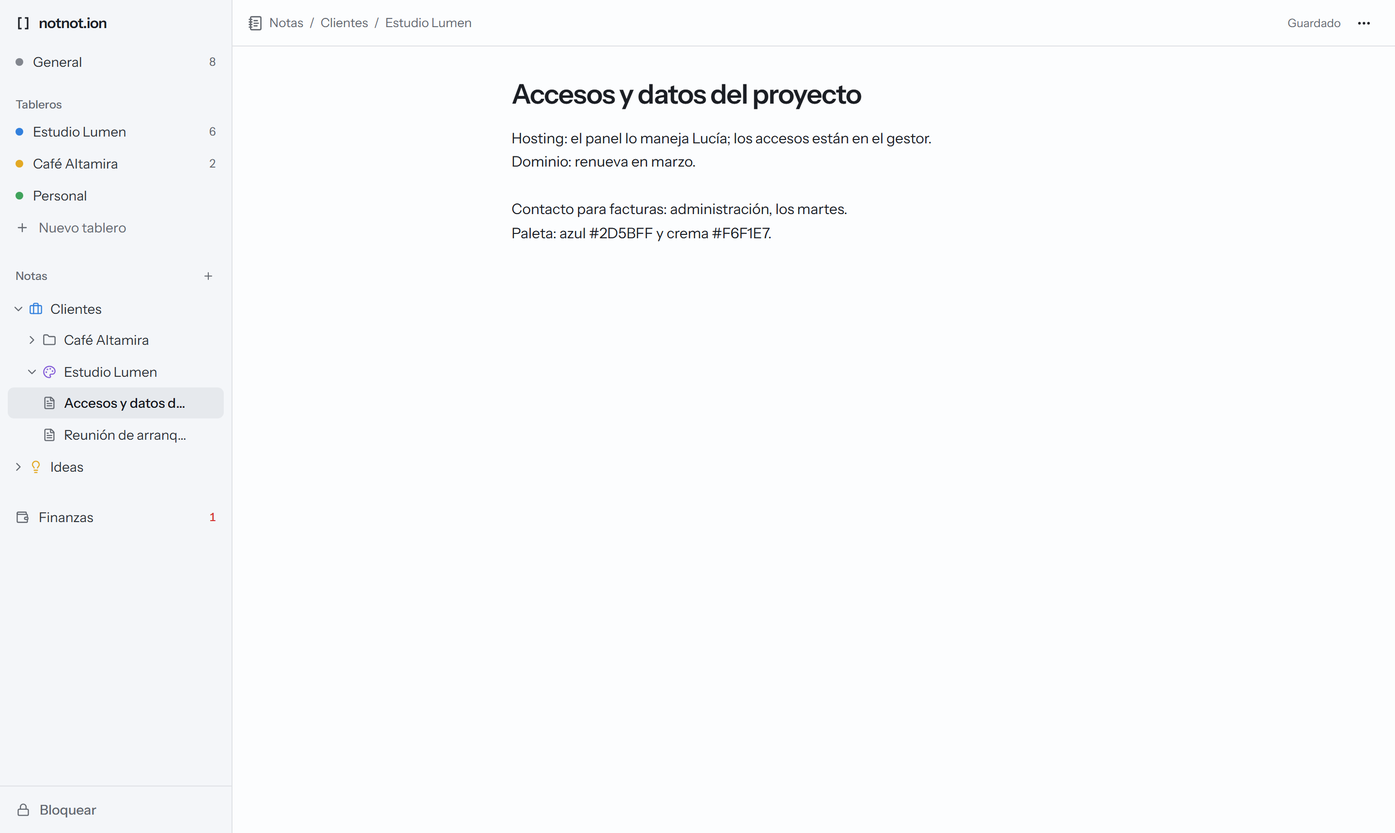
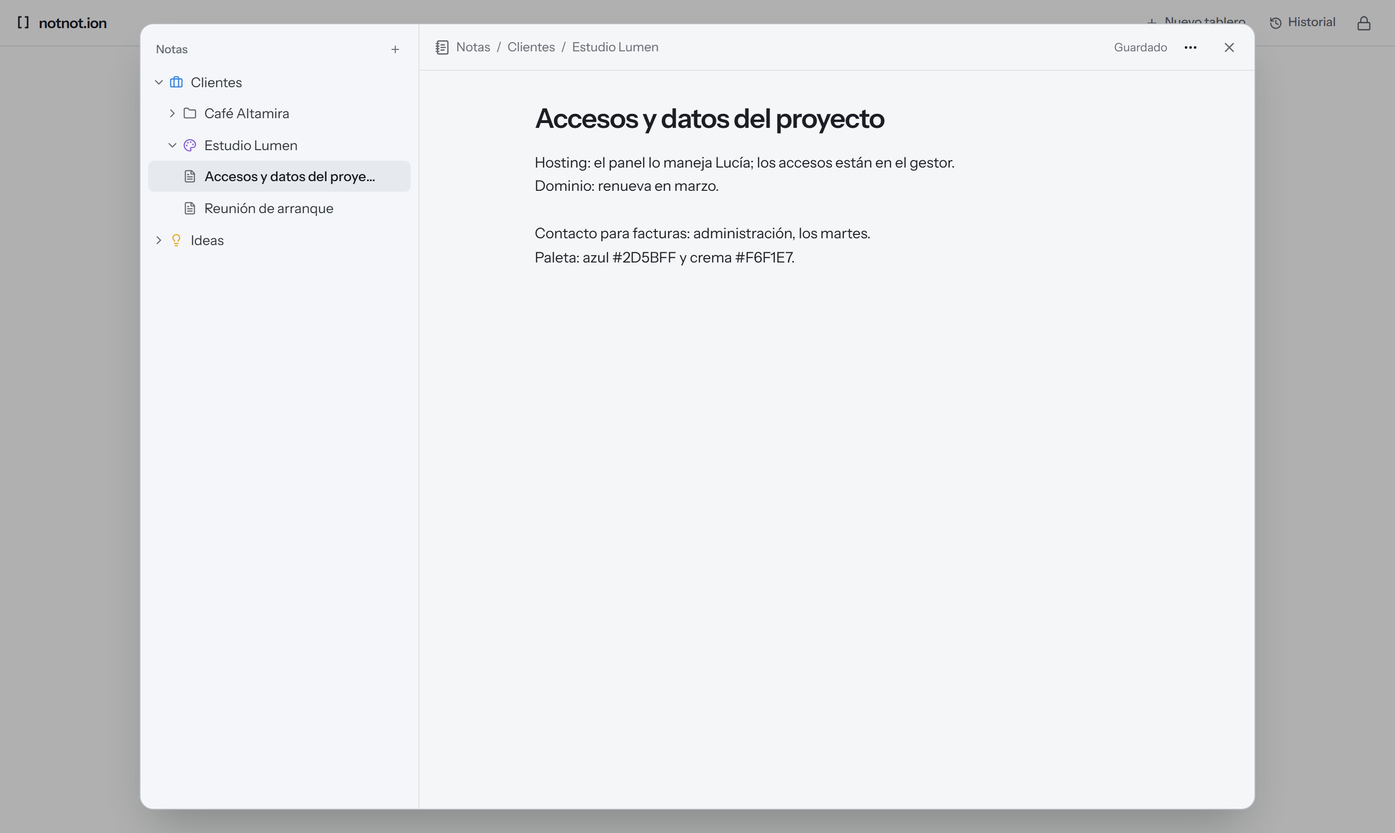
docs: phase 10 in the spec, progress log and README with new screenshots

Changed region(s): [[0.0, 0.0, 1.0, 1.0], [0.375, 0.0924, 0.6875, 0.3081], [0.1562, 0.2465, 0.2188, 0.2773]]

diff --git a/docs/SPEC.md b/docs/SPEC.md
@@ -1,36 +1,35 @@
 # notnot.ion — Spec
 
 ## Qué es
-App personal para organizar el laburo por cliente. Cada cliente o categoría tiene su tablero kanban y, al lado, un panel de notas rápidas: escribís como en un chat con vos mismo y cada línea que empieza con `[]` se convierte en tarjeta.
+App personal para organizar el laburo por cliente. La app abre en una grilla de cuadrados: Hoy, uno por cliente o categoría, Notas y Finanzas. Tocar un cuadrado lo abre encima: el tablero kanban del cliente con sus notas rápidas (escribís como en un chat con vos mismo y cada línea que empieza con `[]` se convierte en tarjeta), lo de hoy de todos los clientes, la sección Notas o Finanzas.
 
 - Un solo usuario. Sin registro ni cuentas: solo un candado con código (ver "Candado").
 - Web + PWA instalable en celu y compu. Sin tiendas.
 - Los datos viven en la API: lo que anotás en el celu aparece en la compu. Sin tiempo real: se refresca al volver a la app.
 
 ## Conceptos
-- **Tablero**: un cliente o categoría ("Pepito", "Personal"). Tiene nombre, slug para `@`, color, columnas, tarjetas y notas. Siempre existe **General** (no se renombra, archiva ni borra): va arriba de todo, su kanban muestra las tarjetas de todos los tableros activos y guarda lo que no es de ningún cliente.
+- **Tablero**: un cliente o categoría ("Pepito", "Personal"). Tiene nombre, slug para `@`, color, columnas, tarjetas y notas. Siempre existe **General** (no se renombra, archiva ni borra): guarda lo que no es de ningún cliente (lo que se anota sin `@`) y su cuadrado va después de los tableros.
 - **Historial**: cada día arranca con la columna de terminadas vacía. Las tarjetas terminadas antes de hoy (medianoche del dispositivo) salen del tablero y quedan en el historial.
 - **Columna**: por defecto "Por hacer", "En curso" y "Hecho". Exactamente una por tablero es la de terminadas (`isDone`, default "Hecho").
-- **Tarjeta**: una tarea. Título, descripción opcional, columna y orden. Puede venir de una nota.
+- **Tarjeta**: una tarea. Título, descripción opcional, columna, orden y día opcional (para Hoy). Puede venir de una nota.
 - **Nota**: texto libre dentro de un tablero. Se crea, se lee y se borra; no se edita en el MVP.
 - **Sección Notas**: aparte de los tableros, para guardar lo que no es una tarea. Carpetas (con carpetas adentro) y notas con título y texto, sueltas o en una carpeta. En el código son `Folder` y `Page`.
 - **Finanzas**: los pagos que me hicieron (solo ingresos, en ARS o USD), con cliente (un tablero), categoría y comprobantes, para poder mostrar qué se pagó y qué no. En el código, `Payment`.
 - **Por cobrar**: lo que me deben, con el día que vence, dentro de Finanzas. Lo que me van pagando de eso son pagos vinculados: lo que falta es el monto menos esos pagos. En el código, `Receivable`.
-- **Hoy**: una lista de cosas generales para hacer, por día ("llevar a la perra al veterinario", "hablarle a Pepito"), aparte de los tableros y sin tarjetas. Lo que no se tachó pasa solo al día siguiente. En el código, `DayItem`.
+- **Hoy**: las tareas con día de todos los tableros ("llevar a la perra al veterinario" en General, "mandar el presupuesto" en Pepito). Una tarea va a Hoy con el sol o eligiendo el día; lo que no se tachó pasa solo al día siguiente. Hasta la Fase 9 eran cosas aparte (`DayItem`); desde la 10 son tareas.
 
 ## Modelo de datos
 | Modelo | Campos |
 |---|---|
 | Board | id, name, slug (único), color, position, isGeneral, archivedAt?, createdAt, updatedAt |
 | Column | id, boardId, name, position, isDone, createdAt, updatedAt |
-| Task | id, boardId, columnId, title, description?, position, completedAt?, archivedAt?, noteId?, noteLine?, createdAt, updatedAt |
+| Task | id, boardId, columnId, title, description?, position, completedAt?, archivedAt?, day? (día), noteId?, noteLine?, createdAt, updatedAt |
 | Note | id, boardId, content, createdAt |
 | Image | id, taskId?, paymentId?, pathname, contentType, size, width, height, createdAt |
 | Folder | id, parentId?, name, color?, icon?, createdAt, updatedAt |
 | Page | id, folderId?, title, content, createdAt, updatedAt |
 | Payment | id, date (día), amountCents, currency, boardId?, category?, description?, receivableId?, createdAt, updatedAt |
 | Receivable | id, description, amountCents, currency, boardId?, dueDate? (día), note?, createdAt, updatedAt |
-| DayItem | id, day (día), text, doneAt?, createdAt, updatedAt |
 
 - Cada tablero tiene al menos 1 columna normal y exactamente 1 `isDone`.
 - `Task.columnId` siempre pertenece a `Task.boardId`.
@@ -45,7 +44,7 @@ App personal para organizar el laburo por cliente. Cada cliente o categoría tie
 - Imágenes: el archivo vive en un store privado de Vercel Blob (`pathname`) y la fila en la base. Cada imagen es de una tarjeta o de un pago (un CHECK lo asegura). Borrar una tarjeta, un tablero o un pago borra sus imágenes (filas en cascada; los archivos los borra la API después).
 - Pagos: monto en centavos (mayor a cero), moneda `ARS` o `USD`, fecha sin hora. Borrar el tablero cliente deja el pago sin cliente. Categoría ≤ 40 y descripción ≤ 1000 (vacías quedan en `null`); hasta 20 comprobantes por pago.
 - Por cobrar: concepto 1–200, monto como el de los pagos, vence (día) y nota ≤ 1000 opcionales. Lo cobrado es la suma de sus pagos (`Payment.receivableId`), que van en su misma moneda (si no, 409); cuando cubren el monto, está cobrada. Borrarla deja sus pagos, sin el vínculo. Borrar el tablero cliente la deja sin cliente.
-- Hoy: `day` es el día para el que se anotó (sin hora) y `doneAt`, cuándo se tachó. Texto 1–200 y hasta 50 por vez. Lo pendiente de un día que ya pasó se ve en el de hoy; lo tachado antes de hoy ya no se ve (queda en la base).
+- Hoy: `Task.day` es el día para el que es (sin hora). Lo pendiente de un día que ya pasó se ve en el de hoy; lo tachado antes de hoy pasa al historial como cualquier tarjeta. "Anotar…" acepta hasta 50 tareas por vez (una por línea).
 
 ## Notas → tareas (el corazón de la app)
 Parser puro en `packages/shared`: `parseNote(content, { currentBoardSlug, boards })` devuelve las líneas tipadas (`text` o `task` con título y slug destino). Lo usa la API para crear (es la autoridad) y la web para la vista previa.
@@ -96,14 +95,14 @@ REST + JSON bajo `/api`. Toda entrada se valida con los schemas de `shared`. Err
 | PATCH / DELETE | `/boards/:id` | Editar (nombre, color, archivar) / borrar |
 | POST | `/boards/:id/columns` | Nueva columna |
 | PATCH / DELETE | `/columns/:id` | Editar / borrar (solo si está vacía; si no, 409) |
-| POST | `/tasks` | Nueva tarea |
-| PATCH / DELETE | `/tasks/:id` | Editar / borrar |
+| POST | `/tasks` | Nueva tarea: `{ columnId, title, description?, day? }` |
+| PATCH / DELETE | `/tasks/:id` | Editar (`title`, `description`, `day`; `day: null` la saca de Hoy) / borrar |
 | POST | `/tasks/:id/move` | `{ columnId, boardId?, prevId?, nextId? }`: vecinos de arriba y abajo en el lugar nuevo; la API calcula `position` |
 | POST | `/tasks/:id/toggle-done` | A la columna `isDone` o de vuelta a la primera columna normal |
 | GET | `/boards/:id/notes?before=` | 50 notas por página, cada una con sus tareas |
 | POST | `/notes` | `{ boardId, content }` → nota + tareas |
 | DELETE | `/notes/:id` | Borra la nota; las tareas quedan |
-| GET | `/general` | Columnas y tarjetas (sin archivar) de todos los tableros activos, para el kanban de General |
+| GET | `/overview` | Columnas y tarjetas (sin archivar) de todos los tableros activos: los cuadrados del Inicio y Hoy |
 | GET | `/history?boardId=&before=` | Tarjetas del historial, de la más nueva a la más vieja, 50 por página. Sin `boardId`, las de todos los tableros |
 | POST | `/tasks/:id/images?width=&height=` | Sube una imagen (el cuerpo es el archivo: WebP, JPEG o PNG, hasta 4 MB) y devuelve `{ id, width, height }` |
 | GET | `/images/:id` | La imagen, con `Cache-Control: private, max-age=31536000, immutable` |
@@ -121,34 +120,32 @@ REST + JSON bajo `/api`. Toda entrada se valida con los schemas de `shared`. Err
 | GET | `/receivables` | Todo lo por cobrar (pendiente y cobrado), cada una con lo cobrado y sus pagos |
 | POST | `/receivables` | `{ description, amountCents, currency, boardId?, dueDate?, note? }` |
 | PATCH / DELETE | `/receivables/:id` | Editar / borrar (sus pagos quedan) |
-| GET | `/day-items` | Lo de Hoy: todo lo pendiente y lo tachado desde la medianoche del dispositivo (`X-Day-Start`; sin el header, en las últimas 24 h), por día y en el orden en que se anotó |
-| POST | `/day-items` | `{ day, text }`: una cosa por línea (sin las viñetas o corchetes del principio), hasta 50 |
-| PATCH / DELETE | `/day-items/:id` | `{ text?, day?, done? }` / borrar |
 
-La web manda en cada pedido `X-Day-Start` con la medianoche de hoy en el dispositivo (ISO). Al leer un tablero, General, notas o historial, la API pasa al historial las terminadas antes de esa hora. Sin el header (o si está a más de 48 h de la hora del server) no archiva nada: no hace falta ninguna tarea programada.
+La web manda en cada pedido `X-Day-Start` con la medianoche de hoy en el dispositivo (ISO). Al leer un tablero, lo del Inicio (`/overview`), notas o historial, la API pasa al historial las terminadas antes de esa hora. Sin el header (o si está a más de 48 h de la hora del server) no archiva nada: no hace falta ninguna tarea programada.
 
 ## UI
-- Rutas: `/unlock`, `/b/:slug` (la web resuelve slug → id con la lista de tableros), `/notas/:slug` (la ventana de notas), `/p` (la sección Notas a pantalla completa), `/p/:id` (una nota de la sección Notas), `/finanzas/:mes` (`/finanzas` abre el mes actual), `/finanzas/por-cobrar` y `/hoy`. `/` redirige al último tablero abierto o a General.
-- Desktop: sidebar (Hoy arriba de todo con cuántas quedan para hoy, General fijo debajo con el total de abiertas, tableros con color y contador de abiertas, archivados colapsados, "+ Nuevo tablero", la sección Notas, Finanzas con cuánto por cobrar vence hoy o ya venció, "Bloquear"), kanban al centro con scroll horizontal, panel de notas a la derecha (~360px, plegable).
-- Sección Notas en la sidebar: árbol plegable (se recuerda qué carpetas están abiertas), carpetas primero y orden alfabético. "+" crea una nota o una carpeta; el "…" de cada fila tiene crear adentro (carpetas), renombrar, "Personalizar" (carpetas: color e ícono, con la fila como va a quedar), "Mover a…" y borrar. Sin elegir, una carpeta se ve gris con el ícono de carpeta. Una carpeta nueva queda lista para escribirle el nombre; una nota se renombra en su título. Borrar una carpeta vacía no pregunta; con contenido, pide confirmación y dice qué se lleva.
+- Rutas: `/unlock`, `/` (el Inicio), `/hoy`, `/b/:slug` (la web resuelve slug → id con la lista de tableros), `/p` (la sección Notas), `/p/:id` (una nota de la sección Notas), `/finanzas/:mes` (`/finanzas` abre el mes actual), `/finanzas/por-cobrar` y `/notas/:slug` (la ventana de notas). Todas menos `/unlock` y la ventana de notas son el Inicio con un panel abierto encima; un link directo abre el Inicio con su panel. `/?nueva-nota` (el atajo de la app instalada) abre las notas de General.
+- **Inicio** (`/`): arriba, la barra con la marca, "Nuevo tablero", "Historial" (el de todos los tableros), "Instalar app" (si se puede) y "Bloquear"; abajo, "Anotar…" y la grilla de cuadrados: Hoy, un cuadrado por tablero activo en su orden (General al final), Notas y Finanzas. Los archivados van plegados abajo ("Archivados (n)"). La grilla se acomoda al ancho (de a dos en el celu).
+  - Cuadrado de un tablero, teñido con su color: nombre, cuántas son para hoy (el sol), hasta tres tareas (primero lo que está en curso, después lo de hoy), las abiertas como número grande y las tachadas hoy. Hoy: la fecha, hasta cuatro de hoy con el punto de su tablero y cuántas quedan. Notas: las últimas editadas y cuántas hay. Finanzas: lo por cobrar (lo vencido en rojo, con cuántas vencieron) y el total.
+  - "Anotar…": una tarea por línea; `@tablero` la manda ahí (sin `@`, a General) y los chips eligen el día (Hoy, los seis que siguen o "Sin día"; en el Inicio arranca en Hoy). Enter anota (Shift+Enter, salto de línea; con el dedo, el botón) y el cuadrado que la recibe late. El mismo campo está en Hoy y en cada tablero, donde sin `@` va a ese tablero y arranca en "Sin día".
+- **Panel**: tocar un cuadrado lo abre encima: crece desde el cuadrado (GSAP Flip, 0,3 s) hasta un panel grande sobre el Inicio oscurecido (en el celu, la pantalla entera) teñido con su color, y al cerrarse (×, Esc, tocando afuera) vuelve al cuadrado; "atrás" del navegador también lo cierra. Con `prefers-reduced-motion`, solo un fundido. Adentro, cada sección tiene su encabezado con la ×.
+- Sección Notas en su panel: en la compu, el árbol a la izquierda y la nota abierta a la derecha; en el celu, la lista o la nota (con "‹" para volver). El árbol: plegable (se recuerda qué carpetas están abiertas), carpetas primero y orden alfabético. "+" crea una nota o una carpeta; el "…" de cada fila tiene crear adentro (carpetas), renombrar, "Personalizar" (carpetas: color e ícono, con la fila como va a quedar), "Mover a…" y borrar. Sin elegir, una carpeta se ve gris con el ícono de carpeta. Una carpeta nueva queda lista para escribirle el nombre; una nota se renombra en su título. Borrar una carpeta vacía no pregunta; con contenido, pide confirmación y dice qué se lleva.
 - Finanzas tiene dos pestañas: **Cobrado** (los pagos por mes) y **Por cobrar** (con cuántas hay pendientes).
 - Cobrado (`/finanzas/2026-10`): el mes con flechas para ir y volver y la lista de los meses con pagos; lo cobrado en el mes por moneda; la lista por fecha o agrupada por categoría con subtotales (`?por=categoria`). "Anotar un pago" y tocar uno abren el mismo formulario: monto como se escribe acá ("150.000", "1.234,50"), moneda, fecha, cliente, categoría (con las ya usadas como sugerencia), descripción y comprobantes (pegar, arrastrar o adjuntar; en uno nuevo se suben al guardarlo). Si hay algo por cobrar, el formulario deja vincular el pago (o desvincularlo); vinculado, la moneda es la de lo que te deben.
 - Por cobrar (`/finanzas/por-cobrar`): lo que te deben en total por moneda y la lista: primero lo vencido (marcado, "venció hace 3 días"), después lo que vence, por fecha ("vence hoy", "vence en 5 días"), y al final lo que no tiene fecha; las cobradas, aparte y plegadas. Cada fila: el día que vence, concepto, cliente, lo que falta (y de cuánto, si ya pagaron una parte) y "Me pagaron", que abre el formulario de un pago ya completo (lo que falta, la moneda, el cliente y el concepto) para ajustar el monto y adjuntar el comprobante. Tocar una abre su formulario: concepto, monto y moneda, vence, cliente, nota y los pagos que tiene.
-- Nota (`/p/:id`): título y texto plano. Se guarda sola (un rato después de la última tecla, al ir a otra nota y al esconder la pestaña) y lo avisa ("Guardando…", "Guardado"). Arriba, dónde está (Notas / carpeta), "Mover a…" y borrar (después de borrarla, vuelve a la lista de notas). En el celu, "‹" vuelve a la lista de notas y la sidebar se abre con "Menú" en la barra de abajo.
-- Hoy (`/hoy`): arriba, la fecha de hoy; abajo, lo de hoy y después cada día que viene con algo ("Mañana · martes 6", "Jueves 8"), en una columna de ancho de lectura.
-  - En Hoy, primero lo pendiente de días anteriores (con "de ayer", "del sábado") y después lo de hoy, en el orden en que se anotó. Sin nada: "Nada para hoy" y que lo que no se tacha pasa solo al día siguiente.
-  - Cada cosa es un checkbox con su texto. Tachada, queda en su lugar. Tocar el texto lo edita ahí mismo (Enter o salir del campo guarda, Esc cancela). Su "…" la mueve a otro día (Hoy, Mañana y los próximos de la semana) o la borra, sin confirmación.
-  - Abajo, el campo "Anotar…" con los días como chips (Hoy, Mañana y los próximos cinco), Hoy por defecto; el elegido se mantiene mientras se anota. Enter agrega lo escrito y deja el campo listo; Shift+Enter hace salto de línea (en la compu) y pegar varias líneas agrega una cosa por línea. También hay botón enviar.
-  - Tildar, anotar, editar, mover y borrar son optimistas.
-- Header del tablero: "Historial" (panel lateral con las terminadas, agrupadas por día; en General, las de todos con el chip de su tablero) y, en desktop, "Abrir las notas en otra ventana".
+- Nota (`/p/:id`): título y texto plano. Se guarda sola (un rato después de la última tecla, al ir a otra nota y al esconder la pestaña) y lo avisa ("Guardando…", "Guardado"). Arriba, dónde está (Notas / carpeta), "Mover a…" y borrar (después de borrarla, vuelve a la lista de notas). En el celu, "‹" vuelve a la lista de notas.
+- Hoy (`/hoy`): la fecha, "Anotar…" (en Hoy) y dos columnas (una abajo de la otra en el celu): **Para hoy**, agrupado por tablero en el orden de los cuadrados (el nombre lleva a su tablero), con "Hechas hoy" plegado abajo; y **Próximos días**, cada día con algo ("Mañana · martes 6", "Jueves 8") con el tablero al lado de cada tarea.
+  - Lo pendiente de días anteriores dice de cuándo viene ("de ayer", "del sábado"); lo que está en una columna "En curso" lo dice. Sin nada: "Nada para hoy" y cómo se agrega.
+  - Cada tarea: checkbox (tilda como desde el tablero), el título (abre el detalle encima de Hoy) y el sol para sacarla de Hoy. El día se cambia desde el detalle.
+- Panel del tablero: encabezado con el color y el nombre, "Tareas" / "Notas", "Desarchivar" si está archivado, "Historial" (las terminadas de ese tablero, agrupadas por día), el menú del tablero y, en la compu, "Abrir las notas en otra ventana". En Tareas, "Anotar…" y el kanban; en Notas, el panel de notas del tablero (en una columna de lectura). `?vista=notas` o `?nota=` abren Notas.
 - Ventana de notas (`/notas/:slug`): una ventana chica aparte (`window.open`, ~400×640) con solo el panel de notas y un selector de tablero arriba (desplegable propio, con el punto de color de cada tablero). Cambiar de tablero cambia dónde se escriben las notas y a dónde van las tareas sin `@`. Lo que cambia en una ventana se refresca en las otras (BroadcastChannel).
-- General: tres columnas fijas por estado con las tarjetas de todos los tableros activos. "Por hacer" = la primera columna normal de cada tablero, "En curso" = las otras normales, "Hecho" = la de terminadas. Cada tarjeta muestra el chip de su tablero (las de General no llevan). Dentro de cada columna van agrupadas por tablero, en el orden de la sidebar. Arrastrar una tarjeta a otra columna la mueve al final de esa columna en su propio tablero ("En curso" va a la segunda columna normal; si el tablero no tiene, avisa y no la mueve). No se reordena dentro de una columna ni se editan las columnas de General. "Agregar tarjeta" en cada columna crea una tarea de General en la columna que corresponde.
+- General es un tablero como los demás, con sus columnas (lo de todos los tableros juntos está en los cuadrados y en Hoy).
 - Columna: título con el color de su rol (la primera normal celeste, las otras amarillas, la de terminadas verde), contador, "+ Agregar tarjeta" al pie y menú (renombrar, marcar como terminadas, borrar). Toda la columna recibe lo que se suelta.
-- Tarjeta: una fila con un checkbox (tilda y destilda como desde la nota) y el título en negrita con una línea de la descripción debajo. Click abre el detalle (título, descripción, imágenes, mover a otro tablero o columna, borrar, link a la nota de origen).
+- Tarjeta: una fila con un checkbox (tilda y destilda como desde la nota), el título (peso normal) con una línea de la descripción debajo y el sol: prendido si es de hoy (o de un día que pasó), apagado al pasar el mouse (con el dedo, siempre) y, si es para otro día, cuándo ("mañana", "jue 29"). Tocar el sol la manda a Hoy o la saca. Click abre el detalle (título, descripción, día, imágenes, mover a otro tablero o columna, borrar, link a la nota de origen). Las columnas miden lo que tienen adentro.
 - Imágenes en el detalle: pegar (Ctrl+V), arrastrar o el botón "Adjuntar" (en el celu abre la galería o la cámara); el navegador las achica y las pasa a WebP antes de subirlas. Miniaturas que se borran (con confirmación) y que, al tocarlas, se agrandan desde su lugar (GSAP Flip, sin animación con `prefers-reduced-motion`) sobre el fondo oscurecido; se cierran con click, Esc o tocando afuera.
 - Mobile (<768px): una sola columna de contenido, sin nada que se salga hacia los costados.
-  - Abajo, la barra de la app: "Hoy" (con cuántas quedan para hoy), "Tablero" (el tablero abierto o, desde otra sección, el último), "Notas" (la sección Notas en `/p`: carpetas y notas, con "Nueva nota" a un toque para usarla de anotador), "Finanzas" (con cuánto por cobrar vence hoy o ya venció) y "Menú" (la sidebar en un panel: tableros, la sección Notas y bloquear). El título del tablero también abre el menú.
-  - Las notas de cada tablero (las que se vuelven tarjetas) se abren con el botón de notas del header del tablero, en lugar de sus columnas; tocarlo de nuevo o "Tablero" abajo vuelve a las columnas.
+  - El Inicio es la navegación: los cuadrados de a dos y la barra de arriba con íconos. Cada panel ocupa la pantalla entera y se cierra con la ×.
+  - En el tablero, "Tareas" / "Notas" van en una fila abajo del encabezado.
   - El tablero es una lista: cada columna es un grupo con su título (color de su rol, contador y menú, fijo arriba mientras se recorre el grupo), sus tarjetas como filas y "Agregar tarjeta" al final. En General, igual con sus tres columnas por estado.
   - Mover: long-press y arrastrar a otro grupo (cerca del borde de abajo o de arriba la lista se mueve sola), o "Mover a…" en el detalle.
   - Los diálogos (tarjeta, pago, por cobrar, tablero, carpeta…) suben desde abajo como hojas, a todo el ancho; las confirmaciones quedan centradas. El historial ocupa toda la pantalla. Abrir una tarjeta no despliega el teclado.
@@ -160,7 +157,7 @@ La web manda en cada pedido `X-Day-Start` con la medianoche de hoy en el disposi
 ## PWA
 - vite-plugin-pwa con `autoUpdate`. Manifest: name "notnot.ion", short_name "notnot", display standalone, colores de tema, íconos 192/512 + maskable, apple-touch-icon.
 - Ícono: un SVG simple propio → PNGs con `@vite-pwa/assets-generator`.
-- Shortcut del manifest "Nueva nota": abre General en Notas con el composer enfocado.
+- Shortcut del manifest "Nueva nota": abre el panel de General en Notas con el composer enfocado.
 - Precache del shell; la API va siempre por red (sin offline en el MVP). Banner "Sin conexión" cuando no hay red.
 - Botón "Instalar" cuando el browser lo permita; en iOS, tip "Compartir → Agregar a inicio".
 
@@ -331,8 +328,21 @@ Una lista de cosas generales para hacer, por día, que no son tareas de un clien
 
 **Listo cuando:** el e2e anota una cosa con Enter y pega dos líneas (quedan 3 para hoy), con el chip "Mañana" anota otra, ve 3 en la sidebar, tacha una y el número baja a 2, edita una y pasa otra a mañana; con el reloj del navegador en mañana, la tachada ya no está y lo pendiente de ayer aparece en Hoy con "de ayer"; borra una. En 375 px llega desde la barra de abajo y anota sin scroll horizontal.
 
+### Fase 10 — Inicio en cuadrados
+La app tenía todo pero desordenado: cinco lugares para anotar una tarea, tres para verlas (Hoy, General y cada tablero) y lo de Hoy no se cruzaba con las tareas de los clientes. Elegiste la propuesta de cuadrados con el panel "que se abre encima" (ver "Inicio" en UI). Una rama y un PR.
+
+- **Inicio** (`/`): el campo para anotar arriba y una grilla de cuadrados: Hoy, un cuadrado por tablero activo (General al final), Notas y Finanzas. Se van la sidebar, la barra de abajo del celu y el kanban de General con lo de todos.
+- **Cada cuadrado resume**: abiertas (el número grande), hasta tres tareas (en curso primero, después las de hoy), cuántas son para hoy (el sol) y cuántas se tacharon hoy.
+- **Tocar un cuadrado lo abre encima**: crece desde su lugar hasta un panel grande (en el celu, la pantalla entera) con GSAP Flip en unos 0,3 s, y vuelve a su lugar al cerrarse (×, Esc, tocar afuera o "atrás"). Adentro, lo de siempre: el kanban y las notas del tablero, Hoy, la sección Notas o Finanzas. Las rutas no cambian (`/b/:slug`, `/hoy`, `/p`, `/finanzas`…): un link directo abre el Inicio con el panel abierto.
+- **Tareas con día**: `Task.day` (opcional). El sol de cada tarea la manda a Hoy o la saca, y el detalle deja elegir el día. Hoy junta las de todos los tableros; lo que no se tacha pasa solo al día siguiente, como antes.
+- **Lo de Hoy pasa a ser tareas**: la migración convierte cada cosa de Hoy en una tarea de General con su día (lo tachado, en "Hecho") y borra la tabla `DayItem` y `/day-items`.
+- **Un campo para anotar**: en el Inicio y en Hoy, con `@tablero` (sin `@`, a General) y chips de día; dentro de un tablero, va a ese tablero. Una tarea por línea.
+- **Más compacto**: tarjetas con el título en peso normal y columnas del alto de lo que tienen.
+
+**Listo cuando:** el e2e anota desde el Inicio "algo @tablero" para hoy y el cuadrado del tablero y el de Hoy lo cuentan; abre el cuadrado del tablero (el panel queda abierto en `/b/:slug`), ve la tarea con el sol prendido, la tacha y el cuadrado suma una tachada; con Esc vuelve al Inicio; abre Hoy y ve la tarea de un tablero y una de General; manda una tarea a mañana desde el detalle y aparece en "Próximos días"; con el reloj del navegador en mañana, lo pendiente de ayer está en Hoy con "de ayer"; abre Notas y Finanzas desde sus cuadrados; un link directo a `/b/:slug` abre el panel. En 375 px, la grilla va de a dos, el panel ocupa la pantalla y no hay scroll horizontal. La migración, probada con datos de Hoy pendientes y tachados, deja las tareas en General con su día.
+
 ## Después (no ahora)
-- Hoy: ver los días pasados, reordenar arrastrando y vincular un cliente con `@`.
+- Hoy: ver los días pasados y reordenar arrastrando.
 - Avisos de lo que vence por cobrar (notificaciones push con la app instalada).
 - IA para procesar notas desordenadas (Claude API desde la API, con confirmación antes de crear).
 - Fechas y recordatorios ("mañana", "viernes").

diff --git a/README.md b/README.md
@@ -1,32 +1,35 @@
 # notnot.ion
 
-App personal para organizar el laburo por cliente. Cada cliente o categoría tiene su tablero kanban y, al lado, un panel de notas rápidas: escribís como en un chat con vos mismo y cada línea que empieza con `[]` se convierte en tarjeta.
+App personal para organizar el laburo por cliente. Abre en una grilla de cuadrados (Hoy, uno por cliente, Notas y Finanzas) y cada cuadrado se abre encima con todo lo suyo: el tablero kanban del cliente, sus notas rápidas (cada línea que empieza con `[]` se vuelve tarjeta), lo de hoy de todos los clientes, la sección Notas o Finanzas.
 
 Un solo usuario, sin cuentas: la app se abre con un código. Funciona en la web y se instala como PWA en el celu y en la compu.
 
-![Tablero con el panel de notas](docs/capturas/escritorio-claro.png)
+![El Inicio: el campo para anotar y los cuadrados](docs/capturas/escritorio-inicio.png)
 
-| Oscuro                                              | Celu: tablero                                           | Celu: notas                                         |
-| --------------------------------------------------- | ------------------------------------------------------- | --------------------------------------------------- |
-| ![Modo oscuro](docs/capturas/escritorio-oscuro.png) | ![Tablero en el celu](docs/capturas/mobile-tablero.png) | ![Notas en el celu](docs/capturas/mobile-notas.png) |
+| Oscuro                                              | Celu: Inicio                                             | Celu: tablero                                           |
+| --------------------------------------------------- | -------------------------------------------------------- | ------------------------------------------------------- |
+| ![Modo oscuro](docs/capturas/escritorio-oscuro.png) | ![El Inicio en el celu](docs/capturas/mobile-inicio.png) | ![Tablero en el celu](docs/capturas/mobile-tablero.png) |
 
 ## Cómo se usa
 
-- **Hoy**: una lista de cosas generales para hacer, por día, que no son tareas de un cliente ("llevar a la perra al veterinario", "hablarle a Pepito"). Escribís abajo y das Enter (pegando varias líneas, se anota una por línea); los chips eligen el día: hoy, mañana o los próximos de la semana. Lo que no tachás pasa solo al día siguiente, marcado ("de ayer"); lo tachado se va al otro día. Tocando el texto lo editás y con el "…" lo movés a otro día o lo borrás. En la sidebar (arriba de todo) y en la barra de abajo del celu ves cuántas te quedan para hoy.
-- **Tableros**: uno por cliente o categoría, con columnas "Por hacer", "En curso" y "Hecho" (podés agregar, renombrar y elegir cuál es la de terminadas).
-- **General**: siempre está arriba. Junta las tarjetas de todos los tableros por estado, cada una con el chip de su tablero, y guarda lo que no es de ningún cliente. Arrastrar una tarjeta a otra columna le cambia el estado en su tablero.
-- **Tarjetas**: se crean al pie de cada columna, se tildan con su checkbox (igual que desde la nota) y se mueven arrastrando a cualquier parte de la columna (con el mouse, con espacio y flechas, o con un toque largo en el celu) o desde el detalle con "Mover a…".
+- **Inicio**: arriba, "Anotar…"; abajo, los cuadrados. Cada uno resume lo suyo: las tareas abiertas (el número grande), lo que está en curso, cuántas son para hoy (el sol) y cuántas tachaste hoy. Tocarlo lo abre encima: crece desde su lugar y, al cerrarlo (×, Esc o tocando afuera), vuelve ahí. Los tableros archivados quedan plegados abajo.
+- **Anotar**: escribís la tarea y das Enter. Con `@tablero` va a ese cliente (sin `@`, a General); los chips eligen el día (Hoy, los próximos de la semana o "Sin día"). Pegando varias líneas se anota una tarea por línea. El mismo campo está en Hoy y en cada tablero (ahí, sin `@`, va a ese tablero).
+- **Hoy**: lo que tenés que hacer hoy de todos los clientes, agrupado por cliente, con los próximos días al lado. Lo que no tachás pasa solo al día siguiente, marcado ("de ayer"). Una tarea va a Hoy con el sol de su tarjeta (o eligiendo el día en su detalle) y sale tocándolo de nuevo.
+- **Tableros**: uno por cliente o categoría, con columnas "Por hacer", "En curso" y "Hecho" (podés agregar, renombrar y elegir cuál es la de terminadas). General guarda lo que no es de ningún cliente.
+- **Tarjetas**: se tildan con su checkbox (igual que desde la nota) y se mueven arrastrando a cualquier parte de la columna (con el mouse, con espacio y flechas, o con un toque largo en el celu) o desde el detalle con "Mover a…". En el detalle también se elige el día.
 - **Imágenes**: en el detalle de una tarjeta, pegá una captura (Ctrl+V), arrastrá una imagen o tocá "Adjuntar" (en el celu, galería o cámara). Se achican antes de subirse, se agrandan al tocarlas y son privadas: solo se ven con el candado abierto.
-- **Notas**: escribís en el panel de la derecha (en el celu, con el botón de notas arriba del tablero). El composer ya arranca con `[] `: escribís, das Enter y se crea la tarjeta, listo para la siguiente. Cada línea que empieza con `[]`, `[ ]`, `- []`, `- [ ]` o `* [ ]` se vuelve tarjeta al final de "Por hacer"; para una nota común, borrás los corchetes. Con `@tablero` la mandás a otro tablero; sin `@`, queda en el tablero donde escribís. Abajo del composer se ve antes de enviar: "2 tareas → Pepito, General".
+- **Notas del tablero**: en la pestaña "Notas" de cada tablero, escribís como en un chat. El composer ya arranca con `[] `: escribís, das Enter y se crea la tarjeta, listo para la siguiente. Cada línea que empieza con `[]`, `[ ]`, `- []`, `- [ ]` o `* [ ]` se vuelve tarjeta al final de "Por hacer"; para una nota común, borrás los corchetes. Con `@tablero` la mandás a otro tablero. Abajo del composer se ve antes de enviar: "2 tareas → Pepito, General".
 - Tildar una línea de la nota manda la tarjeta a "Hecho"; moverla en el tablero actualiza el tilde. Borrar una nota deja sus tarjetas.
-- **Notas en otra ventana**: el botón al lado de "Notas" las abre solas en una ventana chica, con un selector de tablero arriba, para tenerlas al costado en una reunión. En Windows, PowerToys la deja siempre encima con Win+Ctrl+T.
-- **Historial**: cada día arranca con "Hecho" vacío. Lo terminado antes de hoy pasa al Historial (botón en el header), agrupado por día; en General se ve el de todos los tableros.
-- **Sección Notas** (en la sidebar, abajo de los tableros; en el celu, en "Notas" de la barra de abajo, con "Nueva nota" a un toque): para lo que no es una tarea. Carpetas con carpetas adentro y notas con título y texto, que se guardan solas mientras escribís. Se crean, renombran, mueven ("Mover a…") y borran desde el "…" de cada una; las carpetas, además, se personalizan con un color y un ícono.
+- **Notas en otra ventana**: el botón del encabezado del tablero las abre solas en una ventana chica, con un selector de tablero arriba, para tenerlas al costado en una reunión. En Windows, PowerToys la deja siempre encima con Win+Ctrl+T.
+- **Historial**: cada día arranca con "Hecho" vacío. Lo terminado antes de hoy pasa al Historial, agrupado por día: el de cada tablero en su encabezado y el de todos en la barra de arriba del Inicio.
+- **Sección Notas** (su cuadrado): para lo que no es una tarea. Carpetas con carpetas adentro y notas con título y texto, que se guardan solas mientras escribís. En la compu, el árbol a la izquierda y la nota al lado. Se crean, renombran, mueven ("Mover a…") y borran desde el "…" de cada una; las carpetas, además, se personalizan con un color y un ícono.
 - **Finanzas → Cobrado**: los pagos que te hicieron, en pesos o dólares, organizados por mes. Cada uno con fecha, monto, cliente (uno de los tableros), categoría, descripción y comprobantes. Arriba, lo cobrado en el mes por moneda; la lista se ve por fecha o agrupada por categoría.
-- **Finanzas → Por cobrar**: lo que te deben, con el día que vence. Lo vencido queda arriba y marcado, y en la sidebar, al lado de Finanzas, ves cuánto vence hoy o ya venció. "Me pagaron" anota el pago ya completo (si fue una parte, cambiás el monto y queda lo que falta); cuando está todo, pasa a "Cobradas" con la lista de sus pagos.
-- **En el celu**: el tablero es una lista, con las columnas una abajo de la otra. Abajo están "Hoy", "Tablero", "Notas" (la sección Notas, para anotar rápido), "Finanzas" y "Menú" (los tableros y bloquear); las notas del tablero se abren con el botón de notas de su header. La tarjeta y los formularios se abren desde abajo, y todo se toca cómodo con el dedo.
+- **Finanzas → Por cobrar**: lo que te deben, con el día que vence. Lo vencido queda arriba y marcado, y el cuadrado de Finanzas muestra cuánto te deben y cuántas vencieron. "Me pagaron" anota el pago ya completo (si fue una parte, cambiás el monto y queda lo que falta); cuando está todo, pasa a "Cobradas" con la lista de sus pagos.
+- **En el celu**: los cuadrados van de a dos y cada uno se abre a pantalla completa. El tablero es una lista, con las columnas una abajo de la otra. La tarjeta y los formularios se abren desde abajo, y todo se toca cómodo con el dedo.
 
-![General: las tarjetas de todos los tableros por estado](docs/capturas/escritorio-general.png)
+![Un tablero abierto encima del Inicio](docs/capturas/escritorio-tablero.png)
+
+![Hoy: lo de todos los clientes y los próximos días](docs/capturas/escritorio-hoy.png)
 
 | Sección Notas                                           | Finanzas                                                |
 | ------------------------------------------------------- | ------------------------------------------------------- |

diff --git a/docs/PROGRESO.md b/docs/PROGRESO.md
@@ -2,7 +2,7 @@
 
 ## Fase actual
 
-**Fase 9 — Hoy: hecha.** Las fases 0 a 9 están hechas. Los e2e de las fases 8 y 9 quedaron escritos pero sin correr contra la base (la de dev no anda): ver "Pendientes para vos".
+**Fase 10 — Inicio en cuadrados: hecha.** Las fases 0 a 10 están hechas. La base de dev sigue sin andar, así que esta fase se probó con la API de verdad contra un Postgres en memoria (PGlite), con las migraciones del repo: ver "Pendientes para vos".
 
 ## Hecho
 
@@ -90,6 +90,19 @@
 - Web: `/hoy` con lo de hoy (primero lo pendiente de días anteriores, con "de ayer" o "del sábado") y los días que vienen; checkbox, texto que se edita al tocarlo y "…" para moverlo de día o borrarlo; campo "Anotar…" con chips de Hoy a dentro de seis días. Todo optimista. "Hoy" arriba de todo en la sidebar y primero en la barra de abajo del celu (ahora con cinco botones), con cuántas quedan para hoy.
 - e2e (`today.spec.ts`): el "Listo cuando" completo y el celu en 375 px. Pasan contra una API simulada en memoria que usa los schemas reales de `shared` (la base de dev no anda); con la base quedan pendientes. Capturas revisadas en la compu y en el celu, en claro y oscuro.
 
+### Fase 10 — Inicio en cuadrados
+
+- **Por qué**: la app tenía todo pero no te servía en el día a día: cinco lugares para anotar una tarea (Hoy, el panel de notas, la ventana de notas, "Agregar tarjeta" en cada columna y en General), tres para verlas (Hoy, General y cada tablero), lo de Hoy no se cruzaba con los clientes y todo ocupaba mucho. Te mostré dos prototipos (una lista única y cuadrados por cliente) y elegiste los cuadrados con el panel "que se abre encima", con la animación más corta.
+- **Inicio** (`/`, `features/home/`): la barra de arriba (Nuevo tablero, Historial de todos, Instalar, Bloquear), "Anotar…" y la grilla: Hoy, un cuadrado por tablero activo (General al final), Notas y Finanzas, con los archivados plegados abajo. Cada cuadrado resume con los datos de `GET /overview` (antes `/general`), el árbol de Notas y lo por cobrar.
+- **Panel** (`Panel.tsx`): un Radix Dialog que crece desde su cuadrado con GSAP Flip (0,3 s al abrir, 0,24 s al cerrar) y vuelve a él. Las rutas son las de siempre, ahora hijas del Inicio: `/b/:slug`, `/hoy`, `/p`, `/p/:id`, `/finanzas/...`. Cada sección usa `PanelHeader` (con la ×). En el celu ocupa la pantalla.
+- **Tareas con día**: `Task.day` (migración `task_day`, que pasa lo de Hoy a tareas de General con su día y borra `DayItem`). El sol en cada tarjeta (`SunButton`) y el "Día" del detalle. `parseCapture`, `groupToday` y `pendingTodayCount` en `shared`, con tests.
+- **"Anotar…"** (`QuickCapture`): en el Inicio, en Hoy y en cada tablero, con el autocompletado de `@` que ya tenían las notas (ahora `useMentions` y `MentionList`, compartidos) y chips de día.
+- **Hoy** (`TodayPanel`): lo de hoy de todos los tableros agrupado por tablero, "Hechas hoy" plegado y "Próximos días"; el título abre el detalle encima de Hoy.
+- **Notas y Finanzas** en su panel: en la compu, Notas con el árbol a la izquierda y la nota al lado.
+- **Se fueron**: la sidebar, la barra de abajo del celu, el kanban de General con lo de todos, `/day-items` y su pantalla, y "abrir el último tablero".
+- **Más compacto**: tarjetas con el título en peso normal y columnas del alto de lo que tienen.
+- e2e: `home.spec.ts` (el "Listo cuando": anotar con `@` para hoy, abrir el cuadrado, tachar, Esc, Hoy con un tablero y General, pasar a mañana, el día siguiente con "de ayer", Notas, Finanzas, link directo y el celu en 375 px) y los specs de antes actualizados a la navegación nueva (se fueron `today.spec.ts` y `general.spec.ts`). Contra la API local pasan 39 de 42: los que suben imágenes (`images.spec.ts` y el comprobante de `finance.spec.ts`) necesitan el token de Vercel Blob de dev. Los e2e encontraron dos bugs que quedaron arreglados: Esc en un campo dentro del panel (agregar tarjeta, renombrar) cerraba el panel entero, y al crear una carpeta desde el menú de Notas el menú le robaba el foco al nombre. La migración se probó con datos de Hoy pendientes y tachados: quedan en General, en orden y con su día. README con capturas nuevas.
+
 ## Decisiones
 
 - **Versiones**: lo último estable que funciona junto. TypeScript 6.0 (typescript-eslint todavía no soporta TS 7), Prisma 7.10 (Prisma 8 está en RC), React Router 8 en modo data, Vite 8, Vitest 5, ESLint 10, Tailwind 4, Zod 4, shadcn CLI 4.
@@ -163,8 +176,22 @@
 - **Enter en el celu**: en Hoy envía también con el dedo (cada cosa es una línea); en las notas del tablero sigue siendo salto de línea.
 - **Dev**: si corrés comandos de pnpm con la app levantada, pnpm 11 puede regenerar el cliente de Prisma y `node --watch` reinicia la API (algún pedido puede dar 502 en ese momento).
 
+- **Inicio en cuadrados** (Fase 10): lo elegiste entre dos prototipos. El panel es un diálogo de verdad (foco adentro, Esc cierra solo lo de arriba: con el detalle de una tarjeta abierto, Esc cierra el detalle y no el panel; tocar un toast no lo cierra).
+- **Las rutas no cambian**: cada panel es una ruta hija del Inicio, así los links de siempre (`?tarjeta=`, `?nota=`, el atajo "Nueva nota", "Ver la nota") siguen andando. Al cerrar un panel abierto desde el Inicio, la app vuelve atrás en el historial hasta el Inicio (con el índice que guarda React Router en `history.state`): así "atrás" no lo vuelve a abrir.
+- **Animación**: `Flip.fit` sin escala (anima ancho y alto, así el texto no se deforma) y el contenido aparece al final; al cerrar, el contenido se va primero y el panel vuelve a su cuadrado. `power3`, 0,3 s y 0,24 s. Con `prefers-reduced-motion`, un fundido corto.
+- **Tintes con `color-mix` en `oklab`**: en `oklch`, mezclar con el blanco (tono 0) arrastraba todos los colores hacia el rosado.
+- **Hoy son tareas**: un solo modelo para lo que hay que hacer. Lo suelto va a General. La migración está escrita a mano (Prisma solo veía que se borraba la tabla): las claves de orden son la última de la columna con `0001V`, `0002V`… agregado, que quedan después de todo y son claves válidas de fractional indexing (no terminan en "0").
+- **El sol**: prendido si el día es hoy o ya pasó (lo pendiente pasa solo al día siguiente); tocarlo lo saca de Hoy (`day: null`) o lo pone para hoy. Para otro día, desde el detalle; la tarjeta muestra cuándo ("mañana", "jue 29"). En Hoy no hay "…": el detalle tiene todo.
+- **"Anotar…"**: un solo componente. En el Inicio y en Hoy arranca en "Hoy" (como en el prototipo) y en un tablero en "Sin día". Una tarea por línea, un `POST /tasks` por línea en orden (hasta 50): no hizo falta un endpoint nuevo. Avisa con un toast a dónde fue solo si no se ve donde estás.
+- **General es un tablero común**: lo de todos los tableros juntos lo dan los cuadrados y Hoy, así que su kanban con lo de todos se fue. Su Historial es el suyo; el de todos está en la barra del Inicio.
+- **Esc dentro del panel**: Radix escucha el Esc antes que los campos, así que el panel lo ignora si viene de un campo o de un arrastre con teclado (es de ellos); si el campo no lo usó, el foco pasa al panel y el próximo Esc lo cierra.
+- **Columnas del alto de su contenido**: lo pediste más compacto. Para soltar una tarjeta en una columna vacía hay que llevarla hasta la columna (antes toda la altura de la pantalla era zona para soltar).
+- **Tamaño**: Vite avisa que el chunk de librerías pasa los 700 kB (783 kB, 248 kB con gzip). No hay dependencias nuevas (GSAP Flip, Radix Dialog y dnd-kit ya estaban).
+
 ## Pendientes para vos
 
+- **La Fase 10 en producción**: el deploy corre la migración `task_day`, que pasa lo que tengas en Hoy a tareas de General (con su día; lo tachado, a "Hecho") y borra la tabla vieja. La probé con un Postgres en memoria con las mismas migraciones, no contra Neon. Después del deploy, mirá que en Hoy esté lo que tenías.
+- **Probar el Inicio en el celu y en la compu**: sobre todo cómo se siente la animación (si querés más rápida o más lenta es un número).
 - **Credenciales de la base de dev**: el 5/10 sigue igual y además el preview de Vercel tampoco llega al servidor de Neon `dev` (`P1001: Can't reach database server` en `prisma migrate deploy`), así que los previews fallan antes de compilar: puede que el branch `dev` o su endpoint se haya borrado o suspendido. Desde el 1/10 a la tarde, Neon rechaza el usuario y la contraseña del `.env` (`DATABASE_URL` y `DIRECT_URL`: "Authentication failed"; ese día a las 15:23 los e2e andaban), así que la API local da 500. Seguramente se reseteó la contraseña del branch `dev`. Copiá las dos URLs nuevas del branch `dev` (Neon → Connect) al `.env` y corré `pnpm e2e`: los de las fases 8 y 9 quedaron escritos pero sin correr contra la base (si el branch `dev` cambió, actualizá también `DATABASE_URL` y `DIRECT_URL` de Preview en Vercel). Las capturas del celu del README salieron de la API simulada con los mismos datos de `pnpm --filter @notnot/web capturas`; ese comando las vuelve a sacar con la base.
 - **Probar la versión mobile en tu celu**: abrila (o la app instalada) después del deploy. Si todavía ves la sidebar a la izquierda como en la compu, revisá que el navegador no tenga activado "Sitio de escritorio" para la app.
 - **Instalarla en el celu y en la compu** (ver "Instalarla" en el README). El código de producción te lo pasé por chat; no está en el repo.
